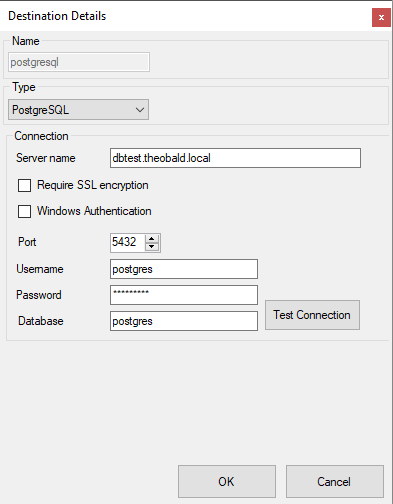
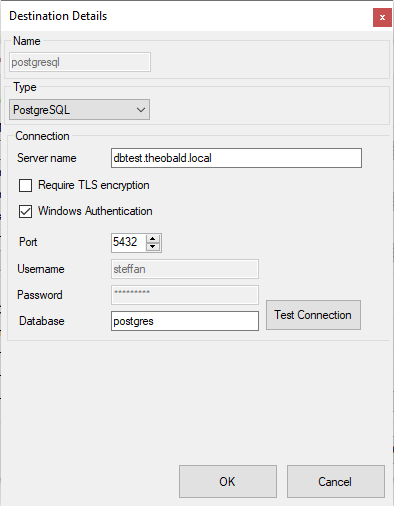
no message

diff --git a/content/_en/xtract-universal/xu-destinations/postgreSQL/postgres-connection.md b/content/_en/xtract-universal/xu-destinations/postgreSQL/postgres-connection.md
@@ -18,8 +18,8 @@ The following settings must be defined for the connection to the target database
 **Server Name**<br>
 Name or IP of the database server and the port number.
 
-**Require SSL encryption**<br>
-PostgreSQL provides native support for using SSL connections to encrypt client/server communication for increased security, see also [Secure TCP/IP Connections with SSL](https://www.postgresql.org/docs/11/ssl-tcp.html).
+**Require TLS encryption**<br>
+PostgreSQL provides native support for using TLS connections to encrypt client/server communication for increased security, see also [Secure TCP/IP Connections with SSL](https://www.postgresql.org/docs/11/ssl-tcp.html).
 
 For SSL encryption you require a certificate signed by a certificate authority (CA) (usually an enterprise-wide root CA) 
 whose identity can be validated by the client Xtract Universal is running on. 

diff --git a/content/_de/xtract-universal/xu-zielumgebungen/postgreSQL/postgres-verbindung.md b/content/_de/xtract-universal/xu-zielumgebungen/postgreSQL/postgres-verbindung.md
@@ -18,8 +18,8 @@ Folgende Einstellungen müssen für die Verbindung zur Zieldatenbank definiert w
 **Server Name**<br>
 Name bzw. IP des Datenbankservers und die Portnummer.
 
-**Require SSL encryption**<br>
-PostgreSQL bietet native Unterstützung für die Verwendung von SSL-Verbindungen zur Verschlüsselung der Client/Server-Kommunikation für mehr Sicherheit, 
+**Require TLS encryption**<br>
+PostgreSQL bietet native Unterstützung für die Verwendung von TLS-Verbindungen zur Verschlüsselung der Client/Server-Kommunikation für mehr Sicherheit, 
 siehe auch [Secure TCP/IP Connections with SSL](https://www.postgresql.org/docs/11/ssl-tcp.html).
 
 Für die SSL-Verschlüsselung benötigen Sie ein von einer Zertifizierungsstelle (CA) (in der Regel eine unternehmensweite Stammzertifizierungsstelle) signiertes Zertifikat,
